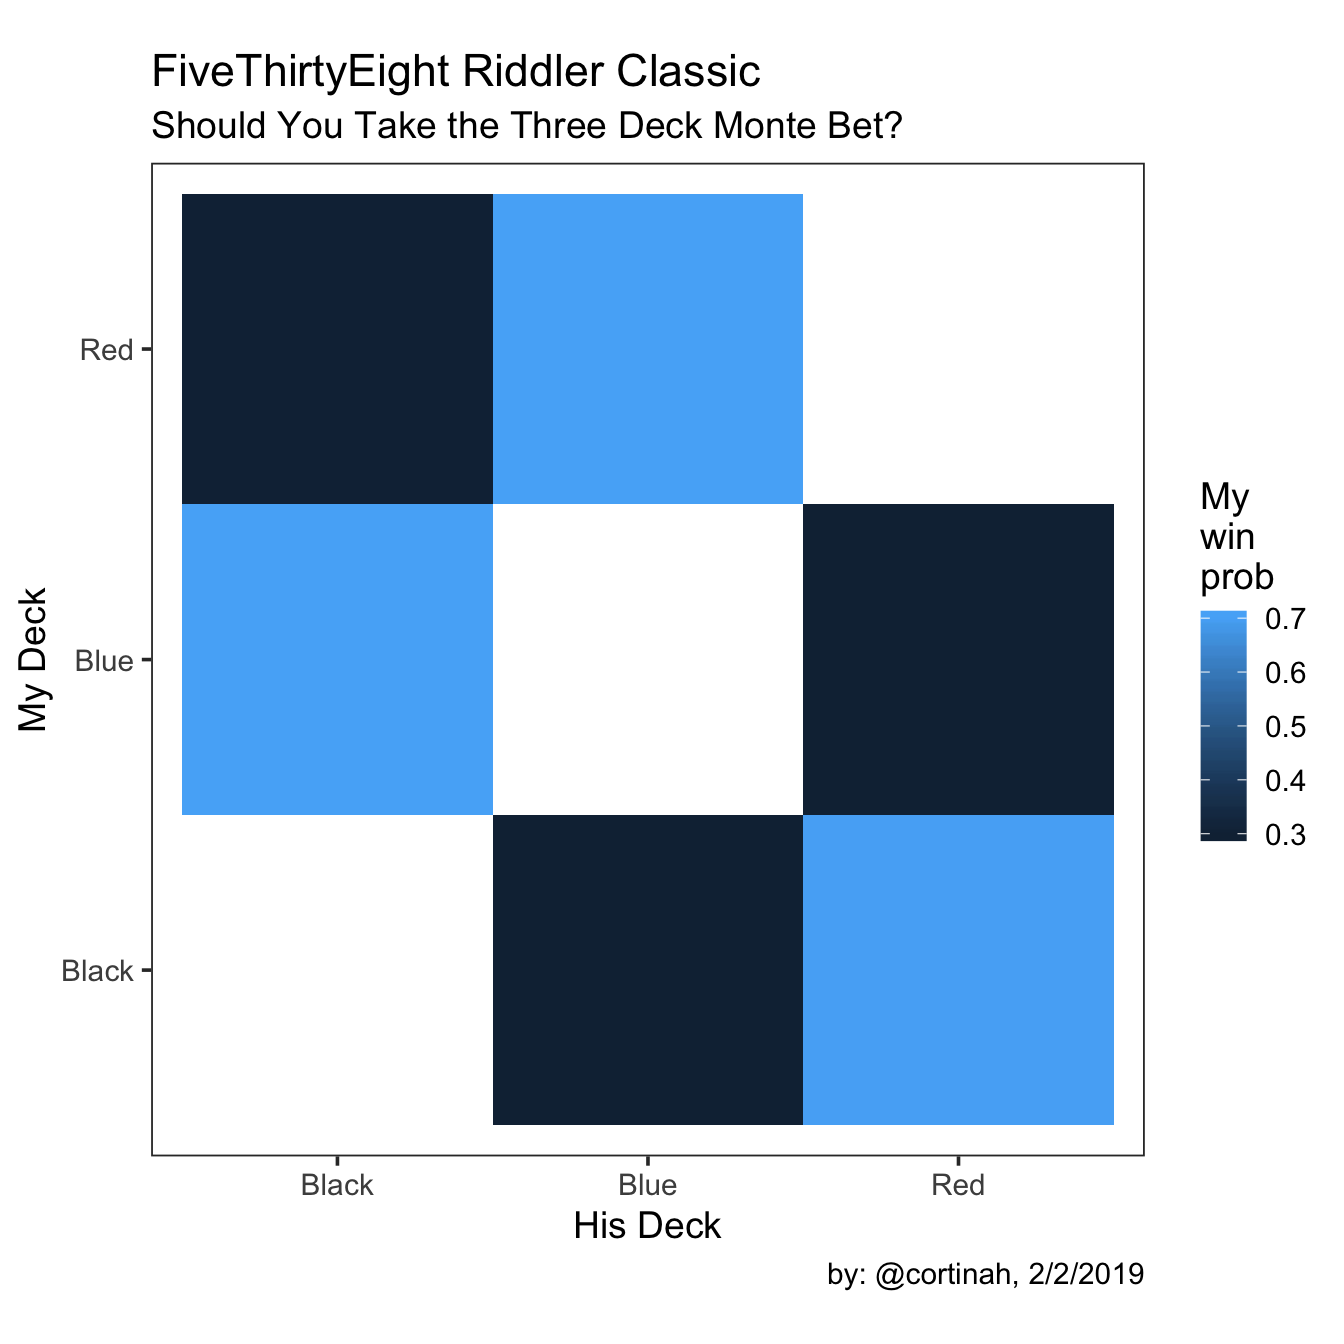
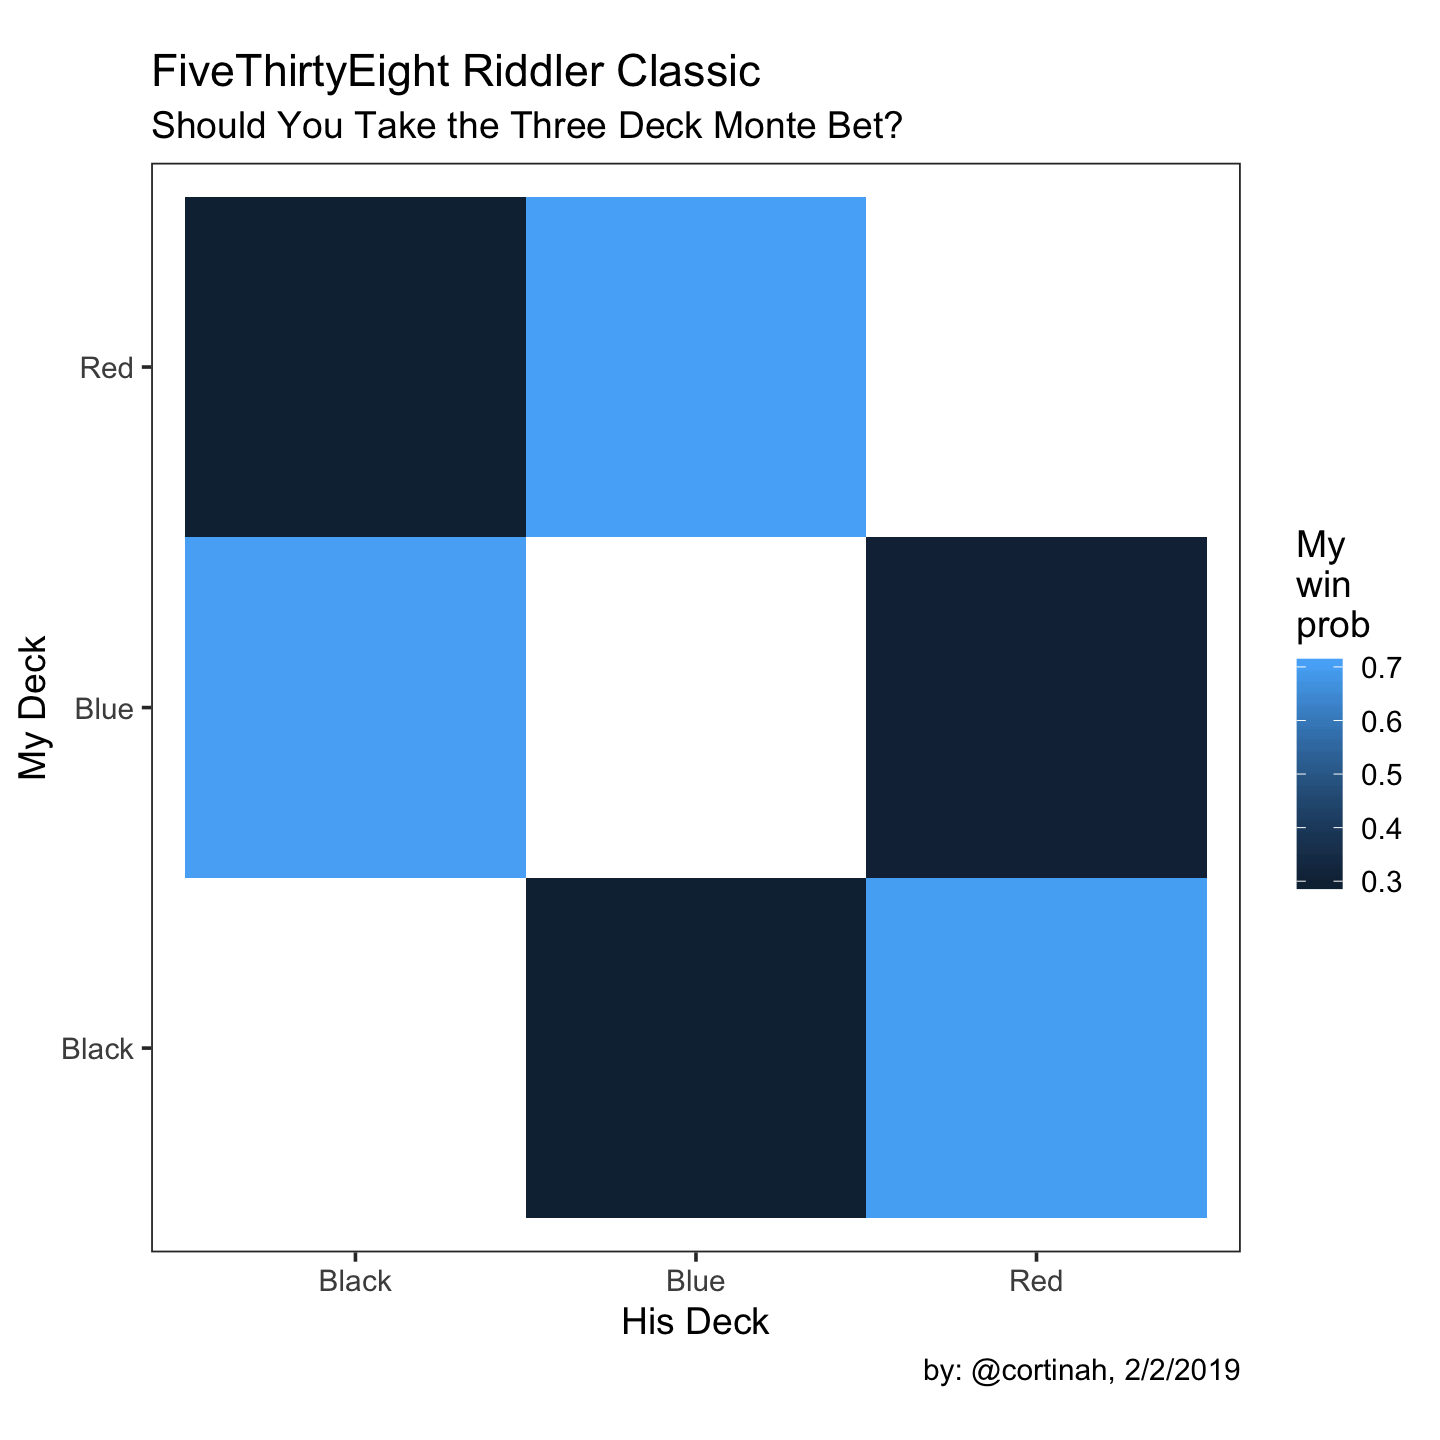
bigger chart

diff --git a/content/post/2019-02-02-riddler-classic-the-three-deck-monte.html b/content/post/2019-02-02-riddler-classic-the-three-deck-monte.html
@@ -14,7 +14,7 @@ slug: riddler-classic-the-three-deck-monte
 
 {{% tweet "1091345144543133702" %}}
 <div id="should-you-take-the-three-deck-monte-bet" class="section level2">
-<h2>Should you Take the Three Deck Monte Bet?</h2>
+<h2>Should You Take the Three Deck Monte Bet?</h2>
 <p>This week’s <a href="https://fivethirtyeight.com/features/can-you-escape-a-maze-without-walls/">FiveThirtyEight Riddler Classic</a> is about whether you should play “Three Deck Monte” on a street corner. You pick one of three decks offered with all cards visible, and your opponent then picks one of the two others. After shuffling each deck you compete in a game similar to War. You each turn over cards one at a time, the one with a higher card wins that turn, and the first to win five turns wins the game. The decks look like this:</p>
 <ul>
 <li>Red deck: four aces, four 9s, four 7s<br />
@@ -63,7 +63,7 @@ results &lt;- sim_all(100000)
 
 ggplot(results, aes(x=hisdeck,y=mydeck,fill=Wins)) + geom_tile() +theme_bw(base_size = 14) +coord_fixed() + theme(panel.grid.major = element_blank()) +labs(title=&#39;FiveThirtyEight Riddler Classic&#39;,subtitle=&#39;Should You Take the Three Deck Monte Bet?&#39;,caption=&quot;by: @cortinah, 2/2/2019&quot;,
   x=&#39;His Deck&#39;, y=&#39;My Deck&#39;) +scale_fill_continuous(&#39;My\nwin\nprob&#39;)</code></pre>
-<p><img src="/post/2019-02-02-riddler-classic-the-three-deck-monte_files/figure-html/game-1.png" width="672" /></p>
+<p><img src="/post/2019-02-02-riddler-classic-the-three-deck-monte_files/figure-html/game-1.png" width="720" /></p>
 </div>
 <div id="dont-play-this-game" class="section level2">
 <h2>Don’t Play This Game!</h2>
@@ -96,6 +96,48 @@ Red
 Blue
 </td>
 <td style="text-align:right;width: 6em; ">
+70.5
+</td>
+<td style="text-align:right;width: 6em; ">
+0.1
+</td>
+</tr>
+<tr>
+<td style="text-align:left;width: 6em; ">
+Red
+</td>
+<td style="text-align:left;width: 6em; ">
+Black
+</td>
+<td style="text-align:right;width: 6em; ">
+29.6
+</td>
+<td style="text-align:right;width: 6em; ">
+0.1
+</td>
+</tr>
+<tr>
+<td style="text-align:left;width: 6em; ">
+Blue
+</td>
+<td style="text-align:left;width: 6em; ">
+Red
+</td>
+<td style="text-align:right;width: 6em; ">
+30.1
+</td>
+<td style="text-align:right;width: 6em; ">
+0.1
+</td>
+</tr>
+<tr>
+<td style="text-align:left;width: 6em; ">
+Blue
+</td>
+<td style="text-align:left;width: 6em; ">
+Black
+</td>
+<td style="text-align:right;width: 6em; ">
 70.2
 </td>
 <td style="text-align:right;width: 6em; ">
@@ -104,55 +146,13 @@ Blue
 </tr>
 <tr>
 <td style="text-align:left;width: 6em; ">
-Red
-</td>
-<td style="text-align:left;width: 6em; ">
 Black
 </td>
-<td style="text-align:right;width: 6em; ">
-29.9
-</td>
-<td style="text-align:right;width: 6em; ">
-0.1
-</td>
-</tr>
-<tr>
 <td style="text-align:left;width: 6em; ">
 Blue
-</td>
-<td style="text-align:left;width: 6em; ">
-Red
 </td>
 <td style="text-align:right;width: 6em; ">
 29.7
-</td>
-<td style="text-align:right;width: 6em; ">
-0.1
-</td>
-</tr>
-<tr>
-<td style="text-align:left;width: 6em; ">
-Blue
-</td>
-<td style="text-align:left;width: 6em; ">
-Black
-</td>
-<td style="text-align:right;width: 6em; ">
-70.3
-</td>
-<td style="text-align:right;width: 6em; ">
-0.1
-</td>
-</tr>
-<tr>
-<td style="text-align:left;width: 6em; ">
-Black
-</td>
-<td style="text-align:left;width: 6em; ">
-Blue
-</td>
-<td style="text-align:right;width: 6em; ">
-29.8
 </td>
 <td style="text-align:right;width: 6em; ">
 0.1
